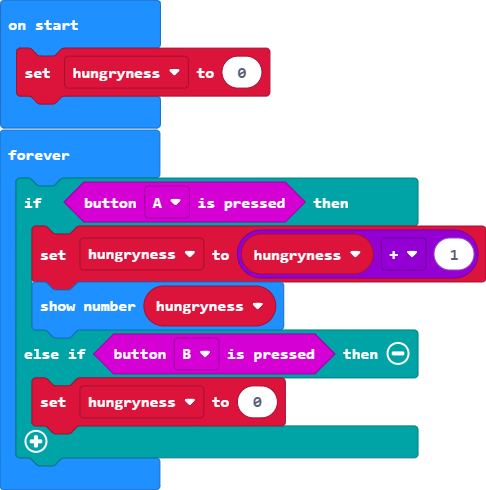
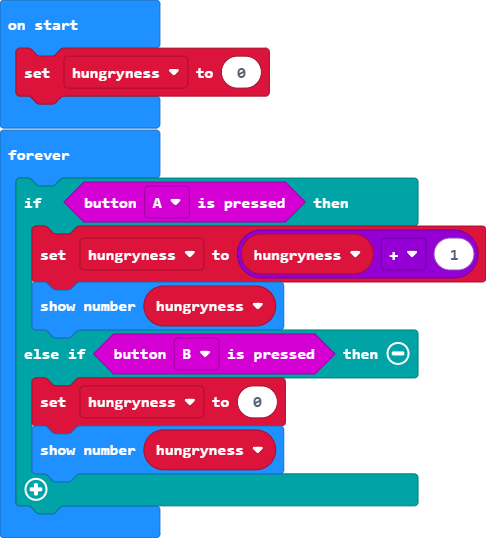
Update main.blocks, main.ts

diff --git a/main.ts b/main.ts
@@ -5,5 +5,6 @@ basic.forever(function () {
         basic.showNumber(hungryness)
     } else if (input.buttonIsPressed(Button.B)) {
         hungryness = 0
+        basic.showNumber(hungryness)
     }
 })
